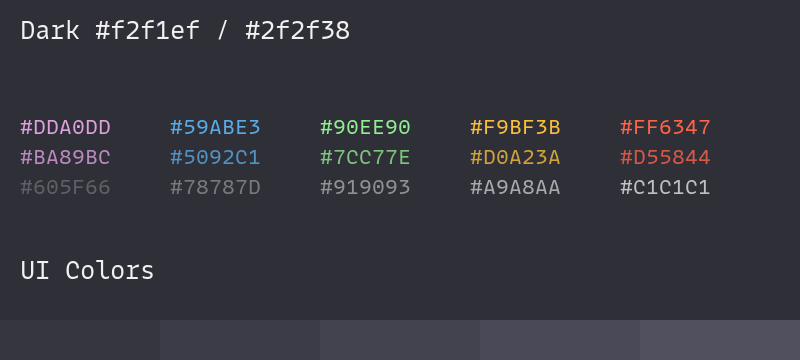
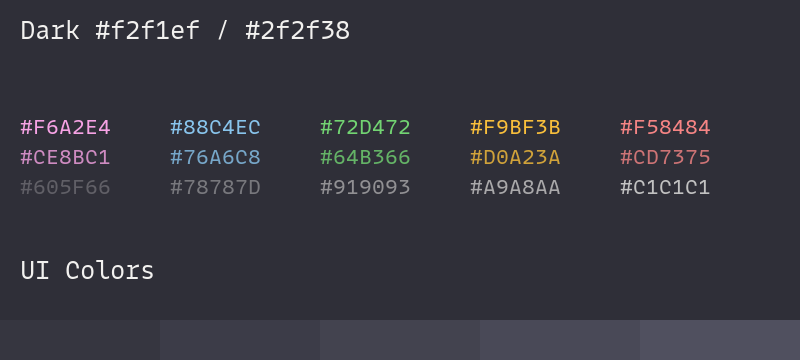
contrast fix

diff --git a/README.md b/README.md
@@ -1,19 +1,23 @@
 # One o Eight
 
-Fully supported languages:
+| Theme   | background |  main colors                      |
+| ------- | ---------- |  -------------------------------- |
+| Light   | light      |  purple, blue, green, orange, red |
+| Dark    | dark       |  purple, blue, green, orange, red |
+| Calm    | light      |  purple, blue, green              |
+| Forest  | light      |  brown, green                     |
+| Seaside | light      |  blue, teal, sand                 |
 
-- Julia
-- Markdown
-- TOML, YAML
-- Notebooks
-- diff
+Note that all main colors in all schemes have a contrast of at least 7:1 to their background, corresponding to an AAA accessibility contrast. This doesn't mean that the colors have strong differences from one another (most do), but that the contrast between the colors and the background is sufficient (and relatively homogeneous).
 
-| Theme   | background | AA contrast | main colors                      |
-| ------- | ---------- | :---------: | -------------------------------- |
-| Light   | light      |      ✔      | purple, blue, green, orange, red |
-| Dark    | dark       |      ✔      | purple, blue, green, orange, red |
-| Calm    | light      |             | purple, blue, green              |
-| Forest  | light      |             | brown, green                     |
-| Seaside | light      |             | blue, teal, sand                 |
+## Overview of the themes
 
-*Note:* the "AA contrast" columns refers to the fact that the five main colors have a contrast of at least 4.5:1, assuming that the font size in the text editor is going to be small. At 3:1, *i.e.* for larger font sizes or bold fonts, all colors in all themes have AA contrast (with the exception of the clear sand color in *Seaside* at 2.98).
+![](cards/light.png)
+
+![](cards/dark.png)
+
+![](cards/calm.png)
+
+![](cards/forest.png)
+
+![](cards/seaside.png)
